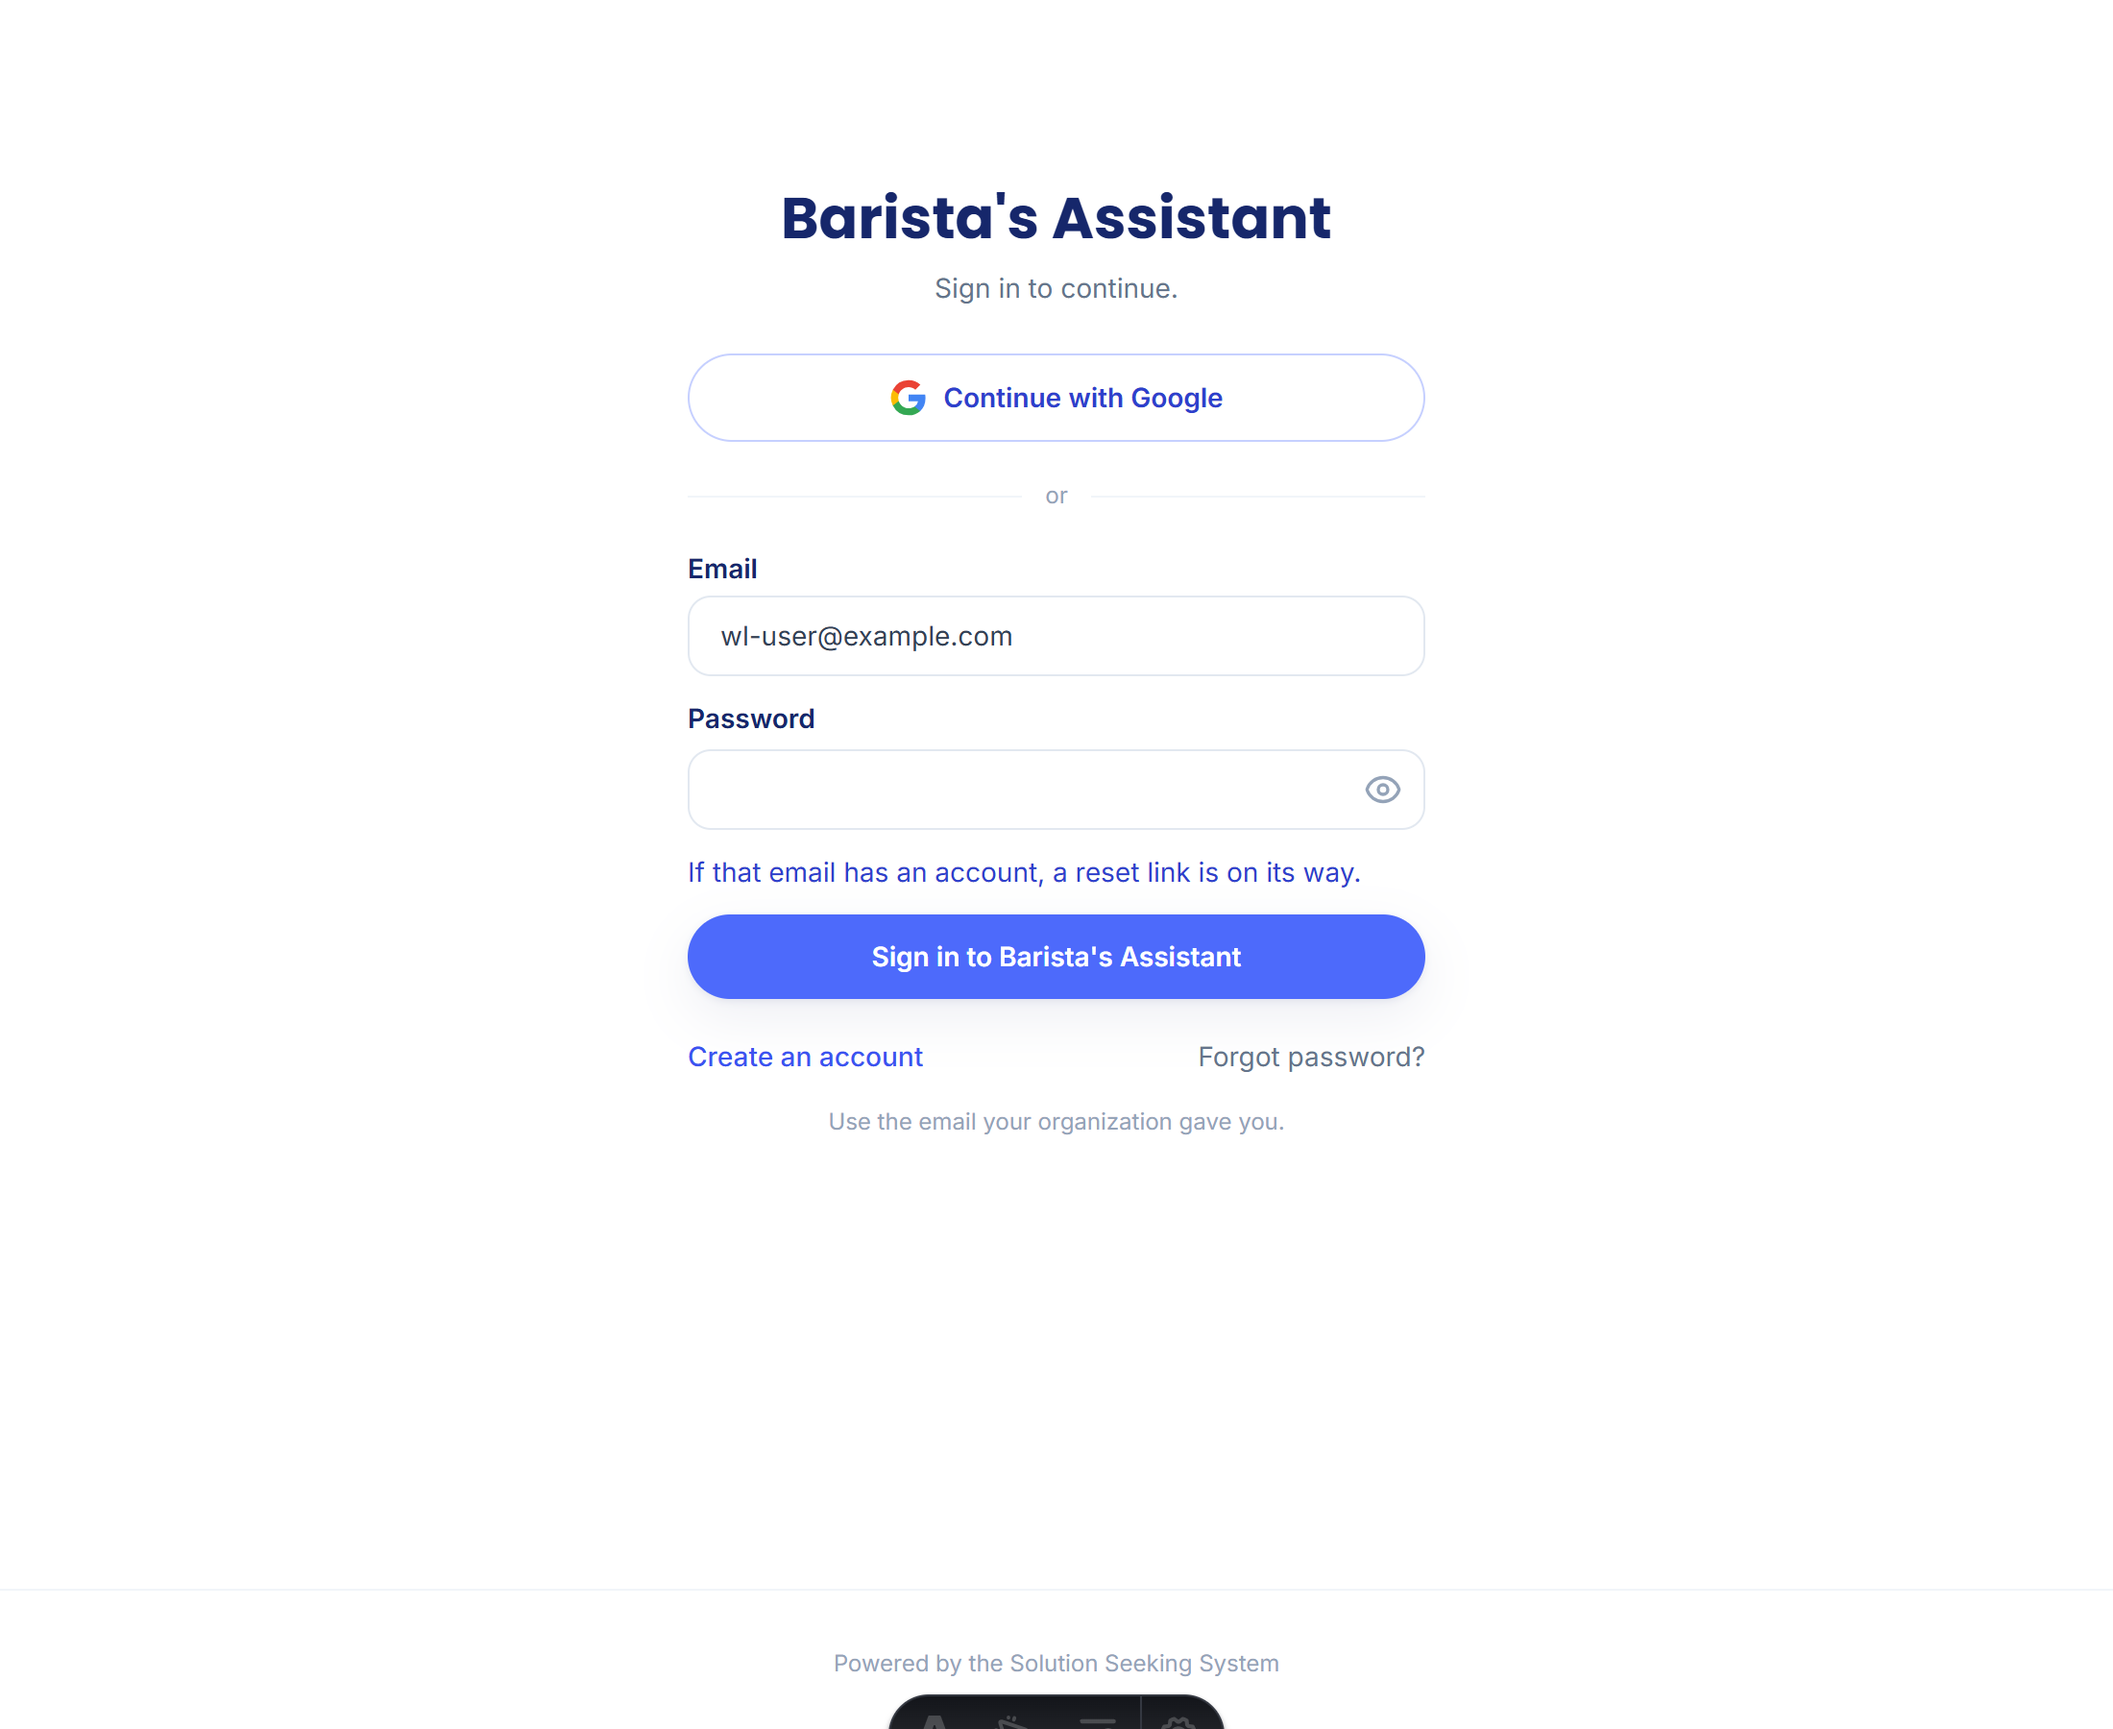
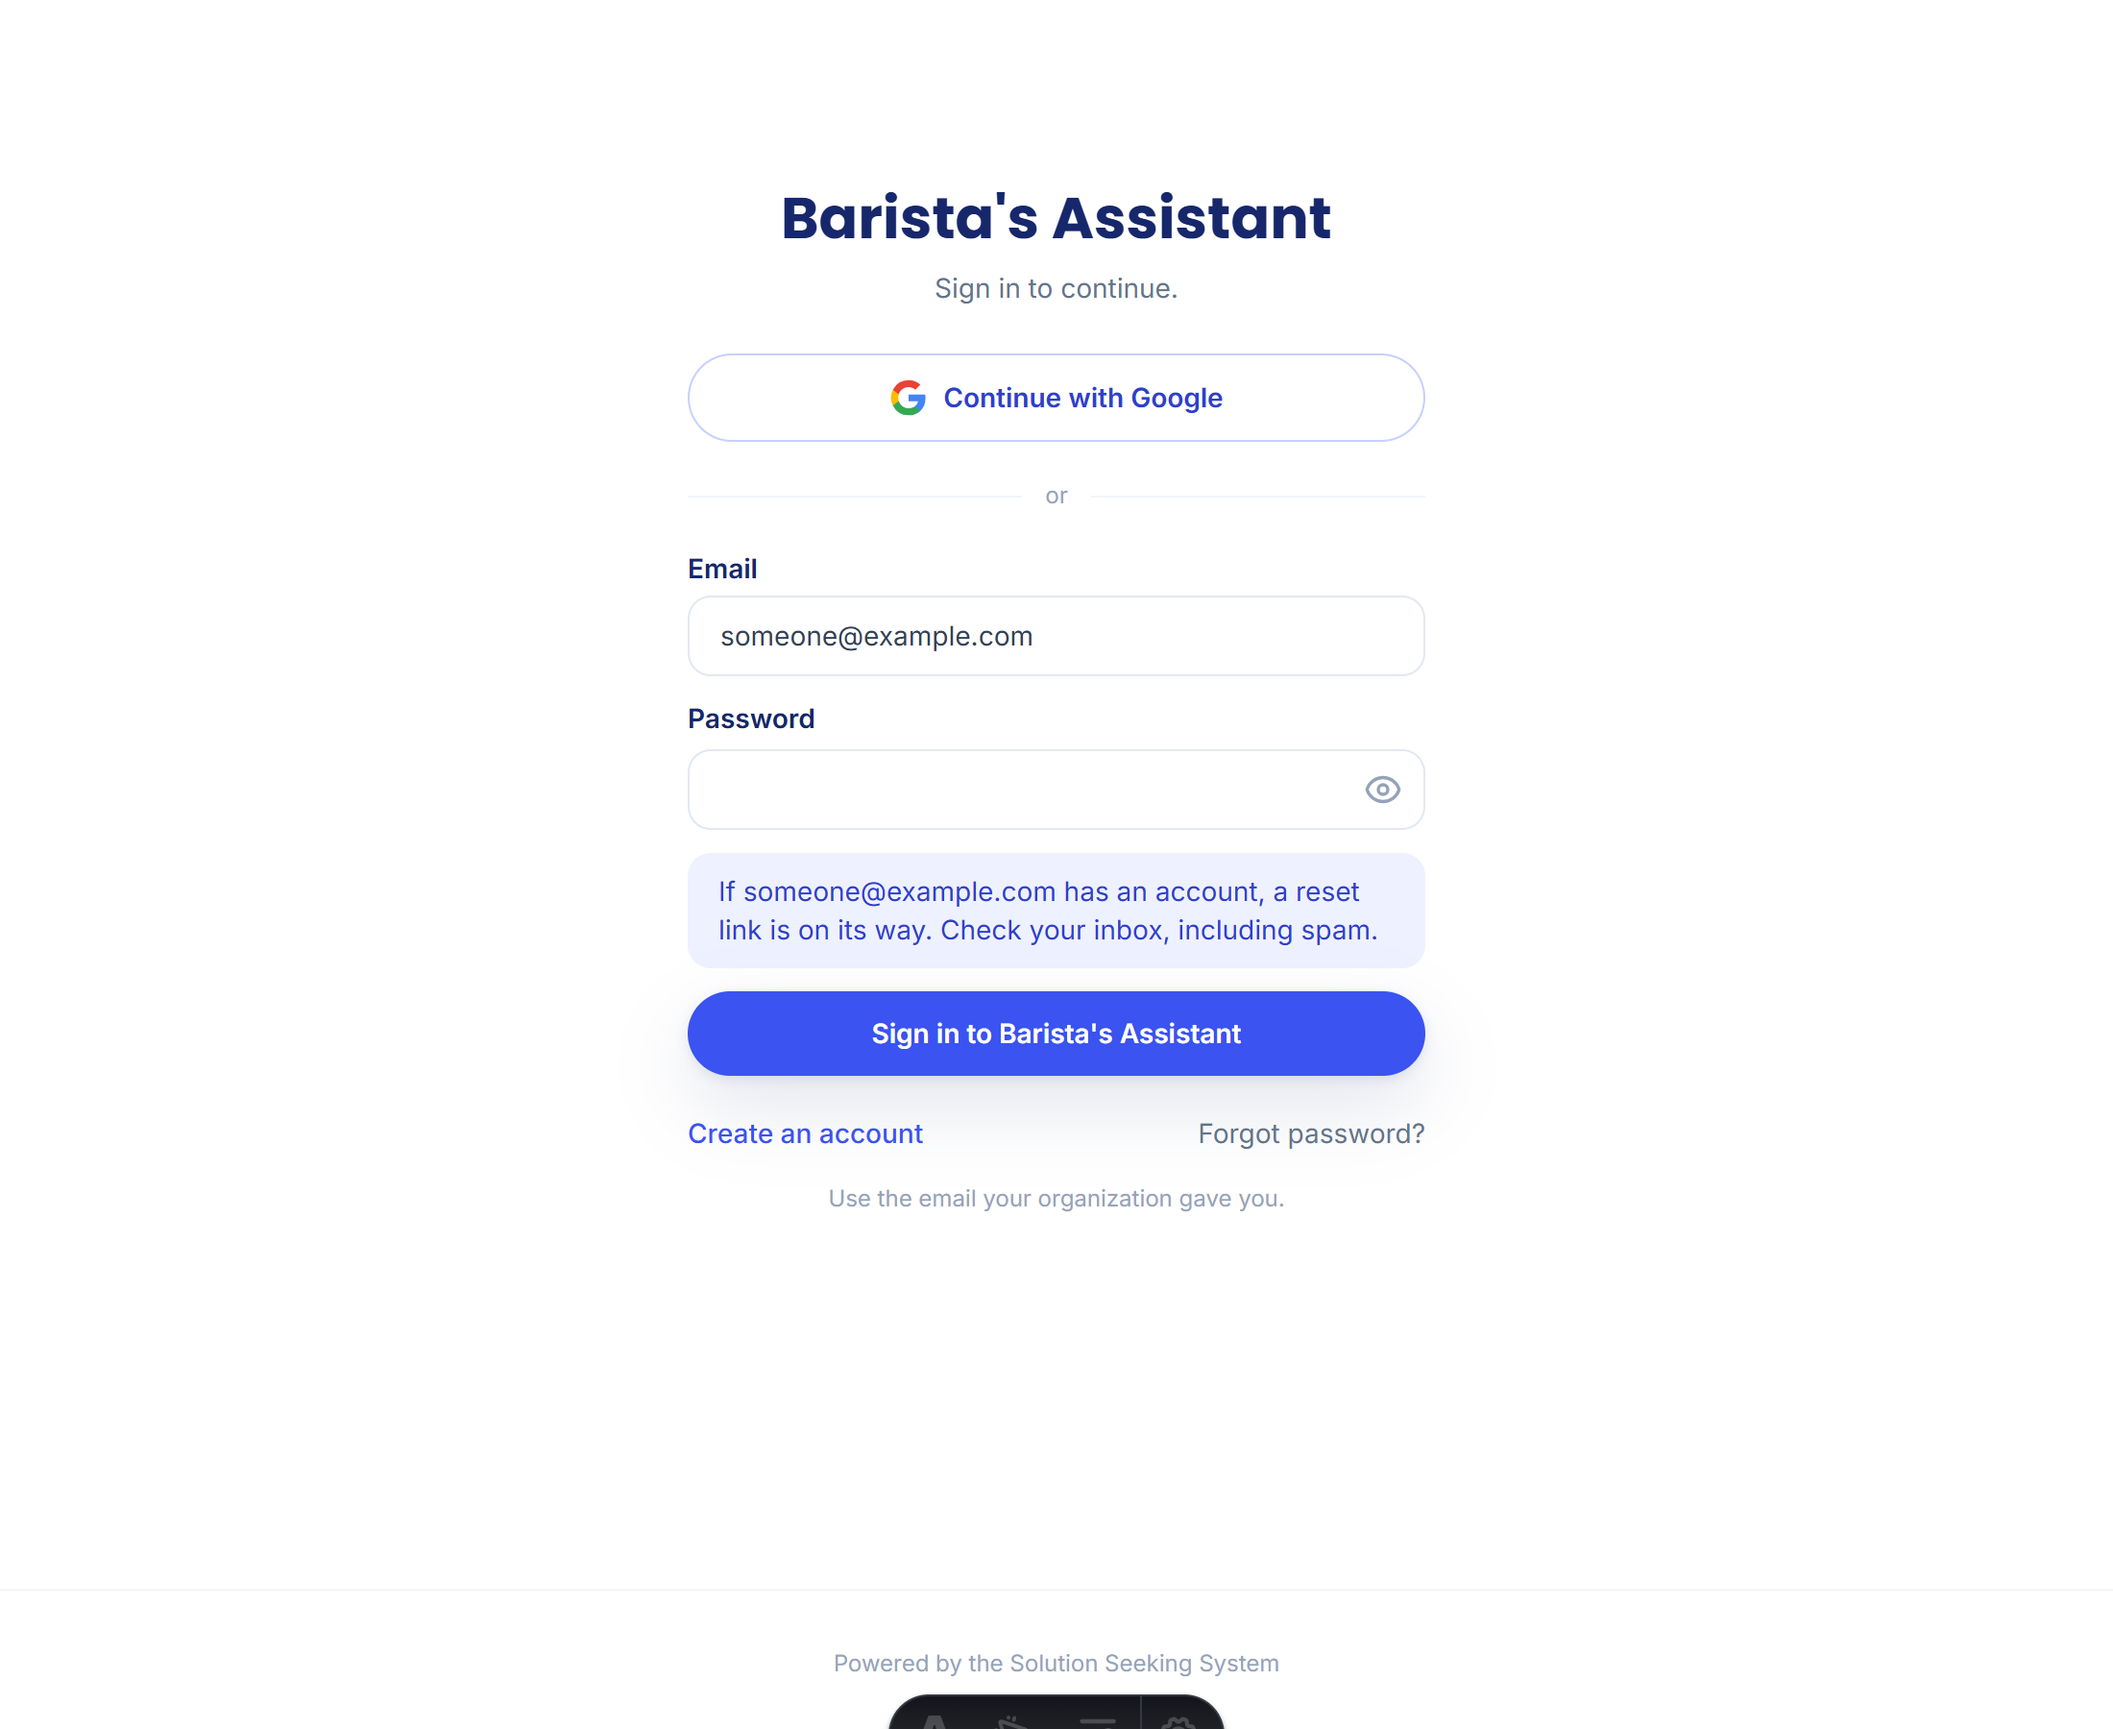
Fix: forgot-password gave no feedback during the captcha solve
A user pressed "Forgot password?" and, seeing nothing happen, kept pressing it
(firing repeat reset emails). On production the click awaits a cold Turnstile solve
(1-3s) before anything renders, and the handler had no pending state.

- WlSignIn + AuthPanel: the button now flips to "Sending…" and disables the instant
  it's pressed, with a guard that ignores repeat clicks while a request is in flight.
- Pre-warm the captcha on mount of both auth surfaces, so the first click isn't stuck
  behind a cold Turnstile load (helps sign-in and register too).
- The success message is now a prominent callout, echoes the email back, and reminds
  the user to check spam.

Verified locally by delaying the reset request via network interception: the button
reads "Sending…" (disabled) during the request, then the callout appears.

Changed region(s): [[0.3091, 0.4978, 0.68, 0.7156], [0.34, 0.3422, 0.4945, 0.3733]]

diff --git a/src/components/react/AuthPanel.tsx b/src/components/react/AuthPanel.tsx
@@ -10,7 +10,7 @@ import { PasswordInput, PasswordChecklist } from './PasswordInput';
 import { markSignupStarted } from '../../lib/analytics';
 import { stashTrialSession } from '../../lib/trialClaim';
 import { FREE_MESSAGES_AFTER_SIGNUP } from '../../data/pricing';
-import { getCaptchaToken } from '../../lib/turnstile';
+import { getCaptchaToken, prewarmCaptcha } from '../../lib/turnstile';
 
 /**
  * Signed-out auth panel for /account: sign in, register (with confirmation
@@ -66,12 +66,19 @@ export default function AuthPanel({ linkExpired = false }: { linkExpired?: boole
   );
   const [notice, setNotice] = useState<string | null>(null);
   const [cooldown, setCooldown] = useState(0);
+  const [forgotBusy, setForgotBusy] = useState(false);
 
   useEffect(() => {
     if (cooldown <= 0) return;
     const t = window.setTimeout(() => setCooldown((c) => c - 1), 1000);
     return () => window.clearTimeout(t);
   }, [cooldown]);
+
+  // Pre-solve a captcha token so the first click (sign in, forgot, register) isn't
+  // stuck behind a cold Turnstile load with no feedback.
+  useEffect(() => {
+    prewarmCaptcha();
+  }, []);
 
   /**
    * A trial user signing in to an account they already have. Their conversation
@@ -243,24 +250,29 @@ export default function AuthPanel({ linkExpired = false }: { linkExpired?: boole
   };
 
   const forgot = async () => {
+    if (forgotBusy) return; // ignore repeat clicks while a request is in flight
     if (!email) {
       setError('Enter your email above first, then tap “Forgot password”.');
       return;
     }
     setError(null);
+    setNotice(null);
+    setForgotBusy(true); // immediate feedback: the button reads "Sending…" and disables
     let captchaToken: string | undefined;
     try {
       captchaToken = await getCaptchaToken();
     } catch (err) {
       setError(err instanceof Error ? err.message : 'The captcha failed. Please try again.');
+      setForgotBusy(false);
       return;
     }
     const { error } = await supabase.auth.resetPasswordForEmail(email, {
       redirectTo,
       captchaToken,
     });
+    setForgotBusy(false);
     if (error) setError(friendlyAuthError(error).message);
-    else setNotice('If that email has an account, a reset link is on its way.');
+    else setNotice(`If ${email} has an account, a reset link is on its way. Check your inbox, including spam.`);
   };
 
   if (mode === 'verify') {
@@ -389,7 +401,7 @@ export default function AuthPanel({ linkExpired = false }: { linkExpired?: boole
             trial comes with you.
           </p>
         )}
-        {notice && <p className="text-sm text-brand-700">{notice}</p>}
+        {notice && <p className="rounded-xl bg-brand-50 px-4 py-2.5 text-sm text-brand-700">{notice}</p>}
 
         <button type="submit" disabled={busy} className="btn-primary w-full disabled:opacity-50">
           {busy ? 'Working…' : mode === 'signin' ? 'Sign in' : 'Create account'}
@@ -405,8 +417,13 @@ export default function AuthPanel({ linkExpired = false }: { linkExpired?: boole
           {mode === 'signin' ? 'Create an account' : 'I already have an account'}
         </button>
         {mode === 'signin' && (
-          <button type="button" onClick={forgot} className="text-slate-500 hover:text-ink-800">
-            Forgot password?
+          <button
+            type="button"
+            onClick={forgot}
+            disabled={forgotBusy}
+            className="text-slate-500 hover:text-ink-800 disabled:opacity-50"
+          >
+            {forgotBusy ? 'Sending…' : 'Forgot password?'}
           </button>
         )}
       </div>

diff --git a/src/components/react/WlSignIn.tsx b/src/components/react/WlSignIn.tsx
@@ -5,7 +5,7 @@ import { usePasswordRecovery } from '../../lib/usePasswordRecovery';
 import { friendlyAuthError, readOAuthRedirectError, MIN_PASSWORD_LENGTH } from '../../lib/authErrors';
 import { PasswordInput, PasswordChecklist } from './PasswordInput';
 import { NewPasswordForm } from './AuthPanel';
-import { getCaptchaToken } from '../../lib/turnstile';
+import { getCaptchaToken, prewarmCaptcha } from '../../lib/turnstile';
 
 /**
  * Branded white-label auth, rendered on the CANONICAL host (the only host with
@@ -56,7 +56,14 @@ export default function WlSignIn({
   const [notice, setNotice] = useState<string | null>(null);
   const [cooldown, setCooldown] = useState(0);
   const [handing, setHanding] = useState(false);
+  const [forgotBusy, setForgotBusy] = useState(false);
   const handed = useRef(false);
+
+  // Solve a captcha token ahead of time so the first click (sign in, forgot password,
+  // register) isn't stuck behind a cold Turnstile load with no visible feedback.
+  useEffect(() => {
+    prewarmCaptcha();
+  }, []);
 
   const brandedRedirect =
     typeof window !== 'undefined'
@@ -132,25 +139,29 @@ export default function WlSignIn({
   };
 
   const forgot = async () => {
+    if (forgotBusy) return; // ignore repeat clicks while a request is in flight
     if (!email.trim()) {
       setError('Enter your email above first, then tap Forgot password.');
       return;
     }
     setError(null);
     setNotice(null);
+    setForgotBusy(true); // immediate feedback: the button reads "Sending…" and disables
     let captchaToken: string | undefined;
     try {
       captchaToken = await getCaptchaToken();
     } catch (err) {
       setError(err instanceof Error ? err.message : 'The captcha failed. Please try again.');
+      setForgotBusy(false);
       return;
     }
     const { error: resetErr } = await supabase.auth.resetPasswordForEmail(email.trim(), {
       redirectTo: brandedRedirect,
       captchaToken,
     });
+    setForgotBusy(false);
     if (resetErr) setError(friendlyAuthError(resetErr).message);
-    else setNotice('If that email has an account, a reset link is on its way.');
+    else setNotice(`If ${email.trim()} has an account, a reset link is on its way. Check your inbox, including spam.`);
   };
 
   const resend = async () => {
@@ -336,7 +347,7 @@ export default function WlSignIn({
         )}
 
         {error && <p className="text-sm text-amber-700">{error}</p>}
-        {notice && <p className="text-sm text-brand-700">{notice}</p>}
+        {notice && <p className="rounded-xl bg-brand-50 px-4 py-2.5 text-sm text-brand-700">{notice}</p>}
 
         <button type="submit" disabled={busy} className="btn-primary w-full disabled:opacity-60">
           {busy ? 'Working…' : mode === 'signin' ? `Sign in to ${orgLabel}` : 'Create account'}
@@ -352,8 +363,13 @@ export default function WlSignIn({
           {mode === 'signin' ? 'Create an account' : 'I already have an account'}
         </button>
         {mode === 'signin' && (
-          <button type="button" onClick={forgot} className="text-slate-500 hover:text-ink-800">
-            Forgot password?
+          <button
+            type="button"
+            onClick={forgot}
+            disabled={forgotBusy}
+            className="text-slate-500 hover:text-ink-800 disabled:opacity-50"
+          >
+            {forgotBusy ? 'Sending…' : 'Forgot password?'}
           </button>
         )}
       </div>

diff --git a/docs/features/white-label-auth/README.md b/docs/features/white-label-auth/README.md
@@ -22,8 +22,11 @@ domain, played by `127.0.0.1:4321`).
    Forgot password, and Create an account.
 2. **2-create-account.png** — The register form (branded), for members who do not have an account
    yet: password + confirm + live checklist.
-3. **3-forgot-password.png** — Forgot password sends a reset link from the branded page; the link
-   returns here to set a new password, then hands off. No detour to the main site.
+3. **3-forgot-password.png** — Forgot password. The button shows "Sending…" (disabled) while the
+   request runs, then a prominent callout confirms the reset link was sent (with the email echoed
+   back and a spam reminder). Previously there was no feedback during the on-production Turnstile
+   solve, so users re-clicked thinking nothing happened; the page now also pre-warms the captcha on
+   mount to cut that lag. The link returns here to set a new password, then hands off.
 4. **4-signed-in-sign-out.png** — After a successful hand-off, the user is signed in on the custom
    domain and the chat header shows a **Sign out** control.
 5. **5-signed-out.png** — After Sign out, the page reverts to the signed-out card.
